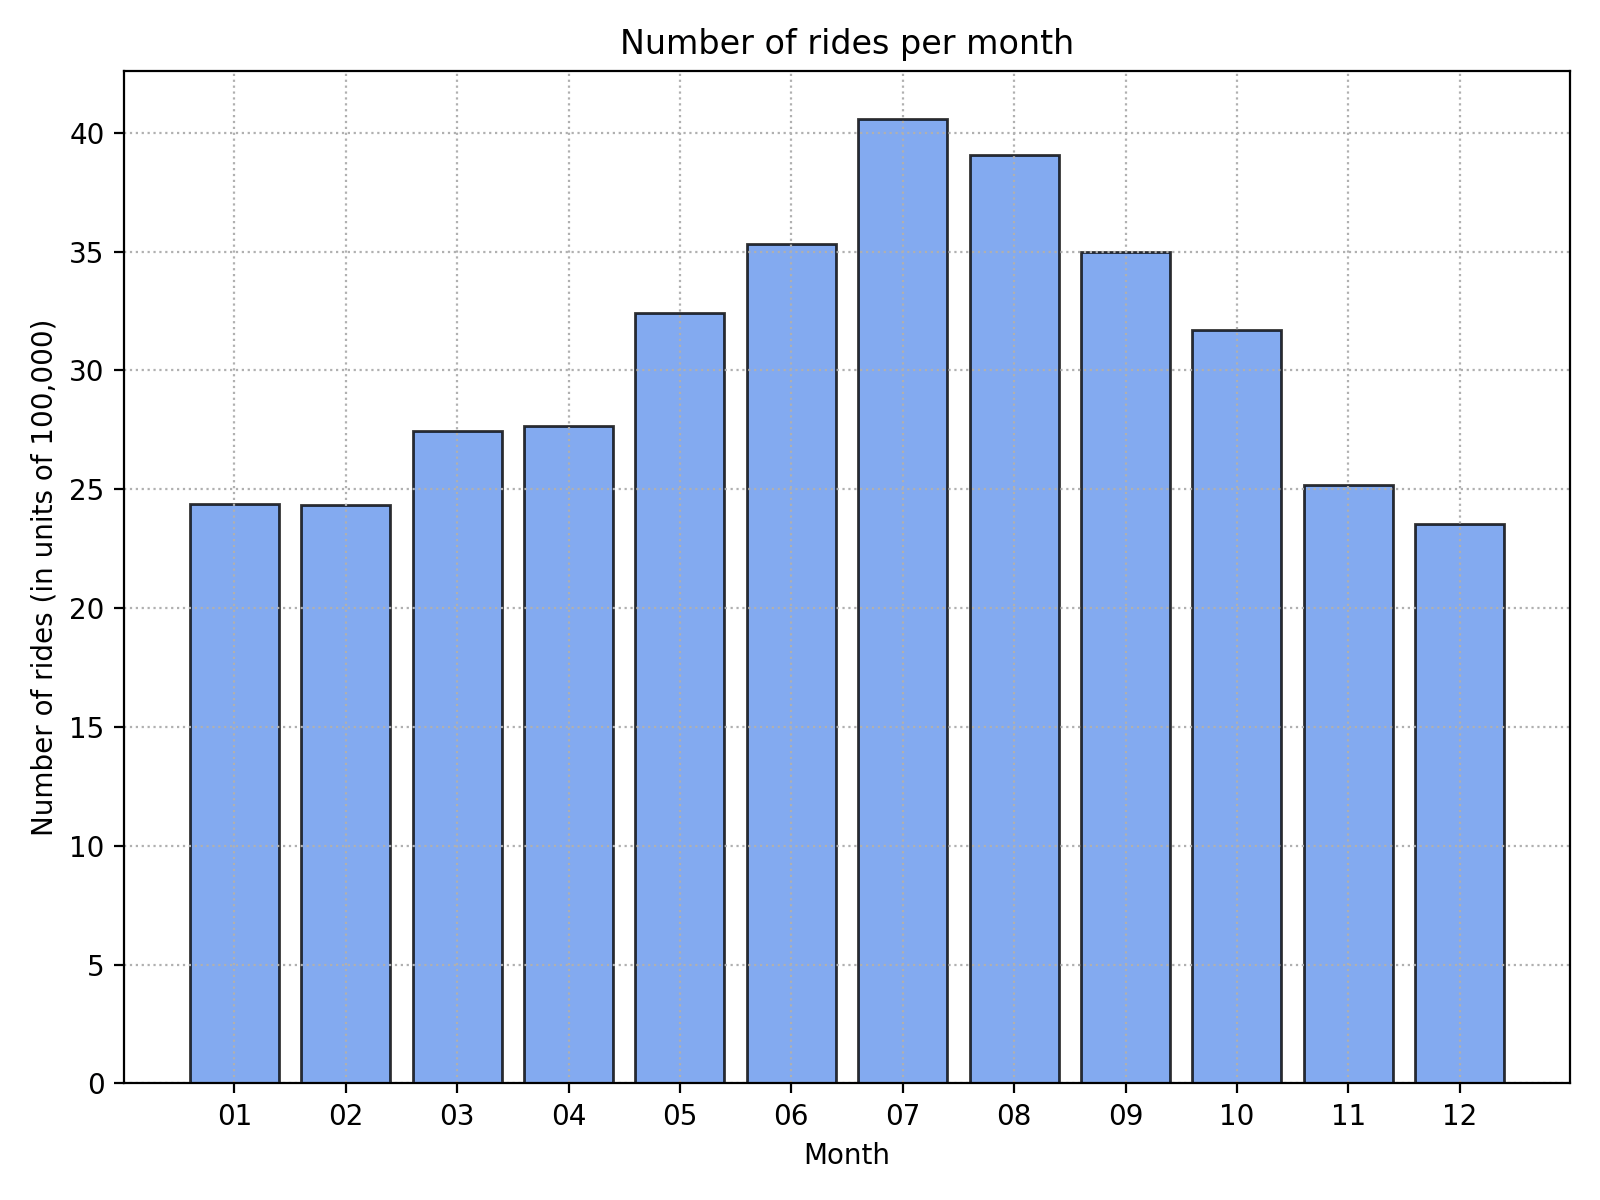
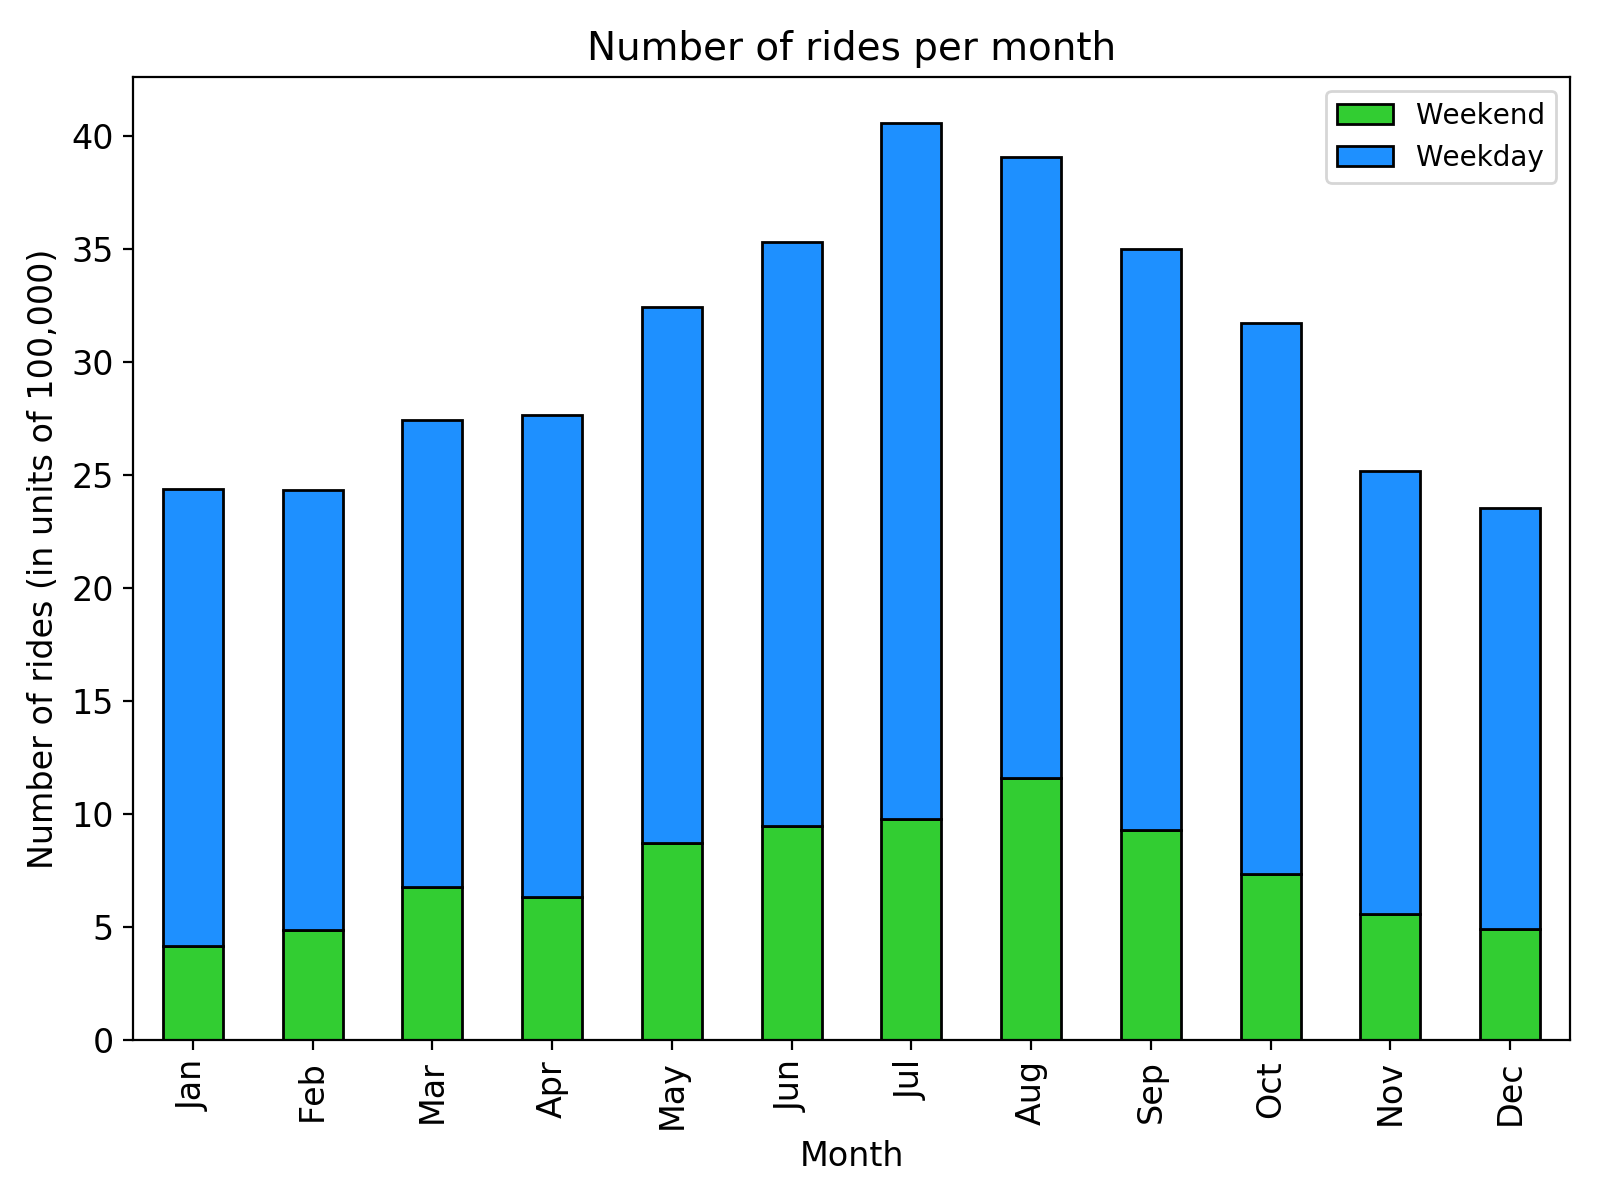
Updated plots for weekdays and weekend

diff --git a/exploratory_data_analysis/rides_by_month.py b/exploratory_data_analysis/rides_by_month.py
@@ -9,20 +9,28 @@ import os, sqlite3
 home = os.environ['HOME']
 data_dir = Path(home) / r'Programming/data/s2ds-project-data'
 con = sqlite3.connect(data_dir / 'FlowJourneyData.db')
-query = ''' SELECT strftime("%m", End_Date) AS Month, 
-                   COUNT(Rental_Id) AS Num_Rides
-              FROM Journeys 
-          GROUP BY Month'''
-cur = con.execute(query)
-query_results = cur.fetchall()
-results_df = pd.DataFrame(query_results, columns=[x[0] for x in cur.description])
+query_wkday = ''' SELECT strftime("%m", End_Date) AS Month, 
+                         COUNT(Rental_Id) AS WeekDay_Rides
+                    FROM Journeys
+                   WHERE strftime("%w", End_Date) NOT IN ("0", "6")
+                GROUP BY Month'''
+query_wkend = ''' SELECT strftime("%m", End_Date) AS Month, 
+                         COUNT(Rental_Id) AS WeekEnd_Rides
+                    FROM Journeys
+                   WHERE strftime("%w", End_Date) IN ("0", "6")
+                GROUP BY Month'''
+query_results = [(con.execute(cur), con.execute(cur).fetchall()) for cur in [query_wkday, query_wkend]]
+results_df_list = [pd.DataFrame(result[1], columns=[x[0] for x in result[0].description]) for result in query_results]
+results_df = pd.concat(results_df_list, axis=1)
 
 # plot
-fig, ax = plt.subplots(figsize=(8, 6))
-ax.bar(results_df['Month'], results_df['Num_Rides']/1e5, color='cornflowerblue', edgecolor='k', alpha=0.8)
-ax.set_xlabel('Month')
-ax.set_ylabel('Number of rides (in units of 100,000)')
-ax.set_title('Number of rides per month')
-ax.grid(linestyle=':')
-fig.tight_layout()
+rides_results_df = results_df[['WeekEnd_Rides', 'WeekDay_Rides']].rename(columns={'WeekEnd_Rides': 'Weekend', 'WeekDay_Rides': 'Weekday'}, index={0: 'Jan', 1: 'Feb', 2: 'Mar', 3: 'Apr', 4: 'May', 5: 'Jun', 6: 'Jul', 7: 'Aug', 8: 'Sep', 9: 'Oct', 10: 'Nov', 11: 'Dec'})
+rides_results_df = rides_results_df.divide(1e5)
+ax = rides_results_df.plot(kind='bar', stacked=True, figsize=(8, 6), color=['limegreen', 'dodgerblue'], fontsize=12, edgecolor='k')
+ax.set_xlabel('Month', fontsize=12)
+ax.set_ylabel('Number of rides (in units of 100,000)', fontsize=12)
+ax.set_title('Number of rides per month', fontsize=14)
+# ax.grid(linestyle=':')
+ax.legend(loc='best')
+plt.tight_layout()
 plt.show()
